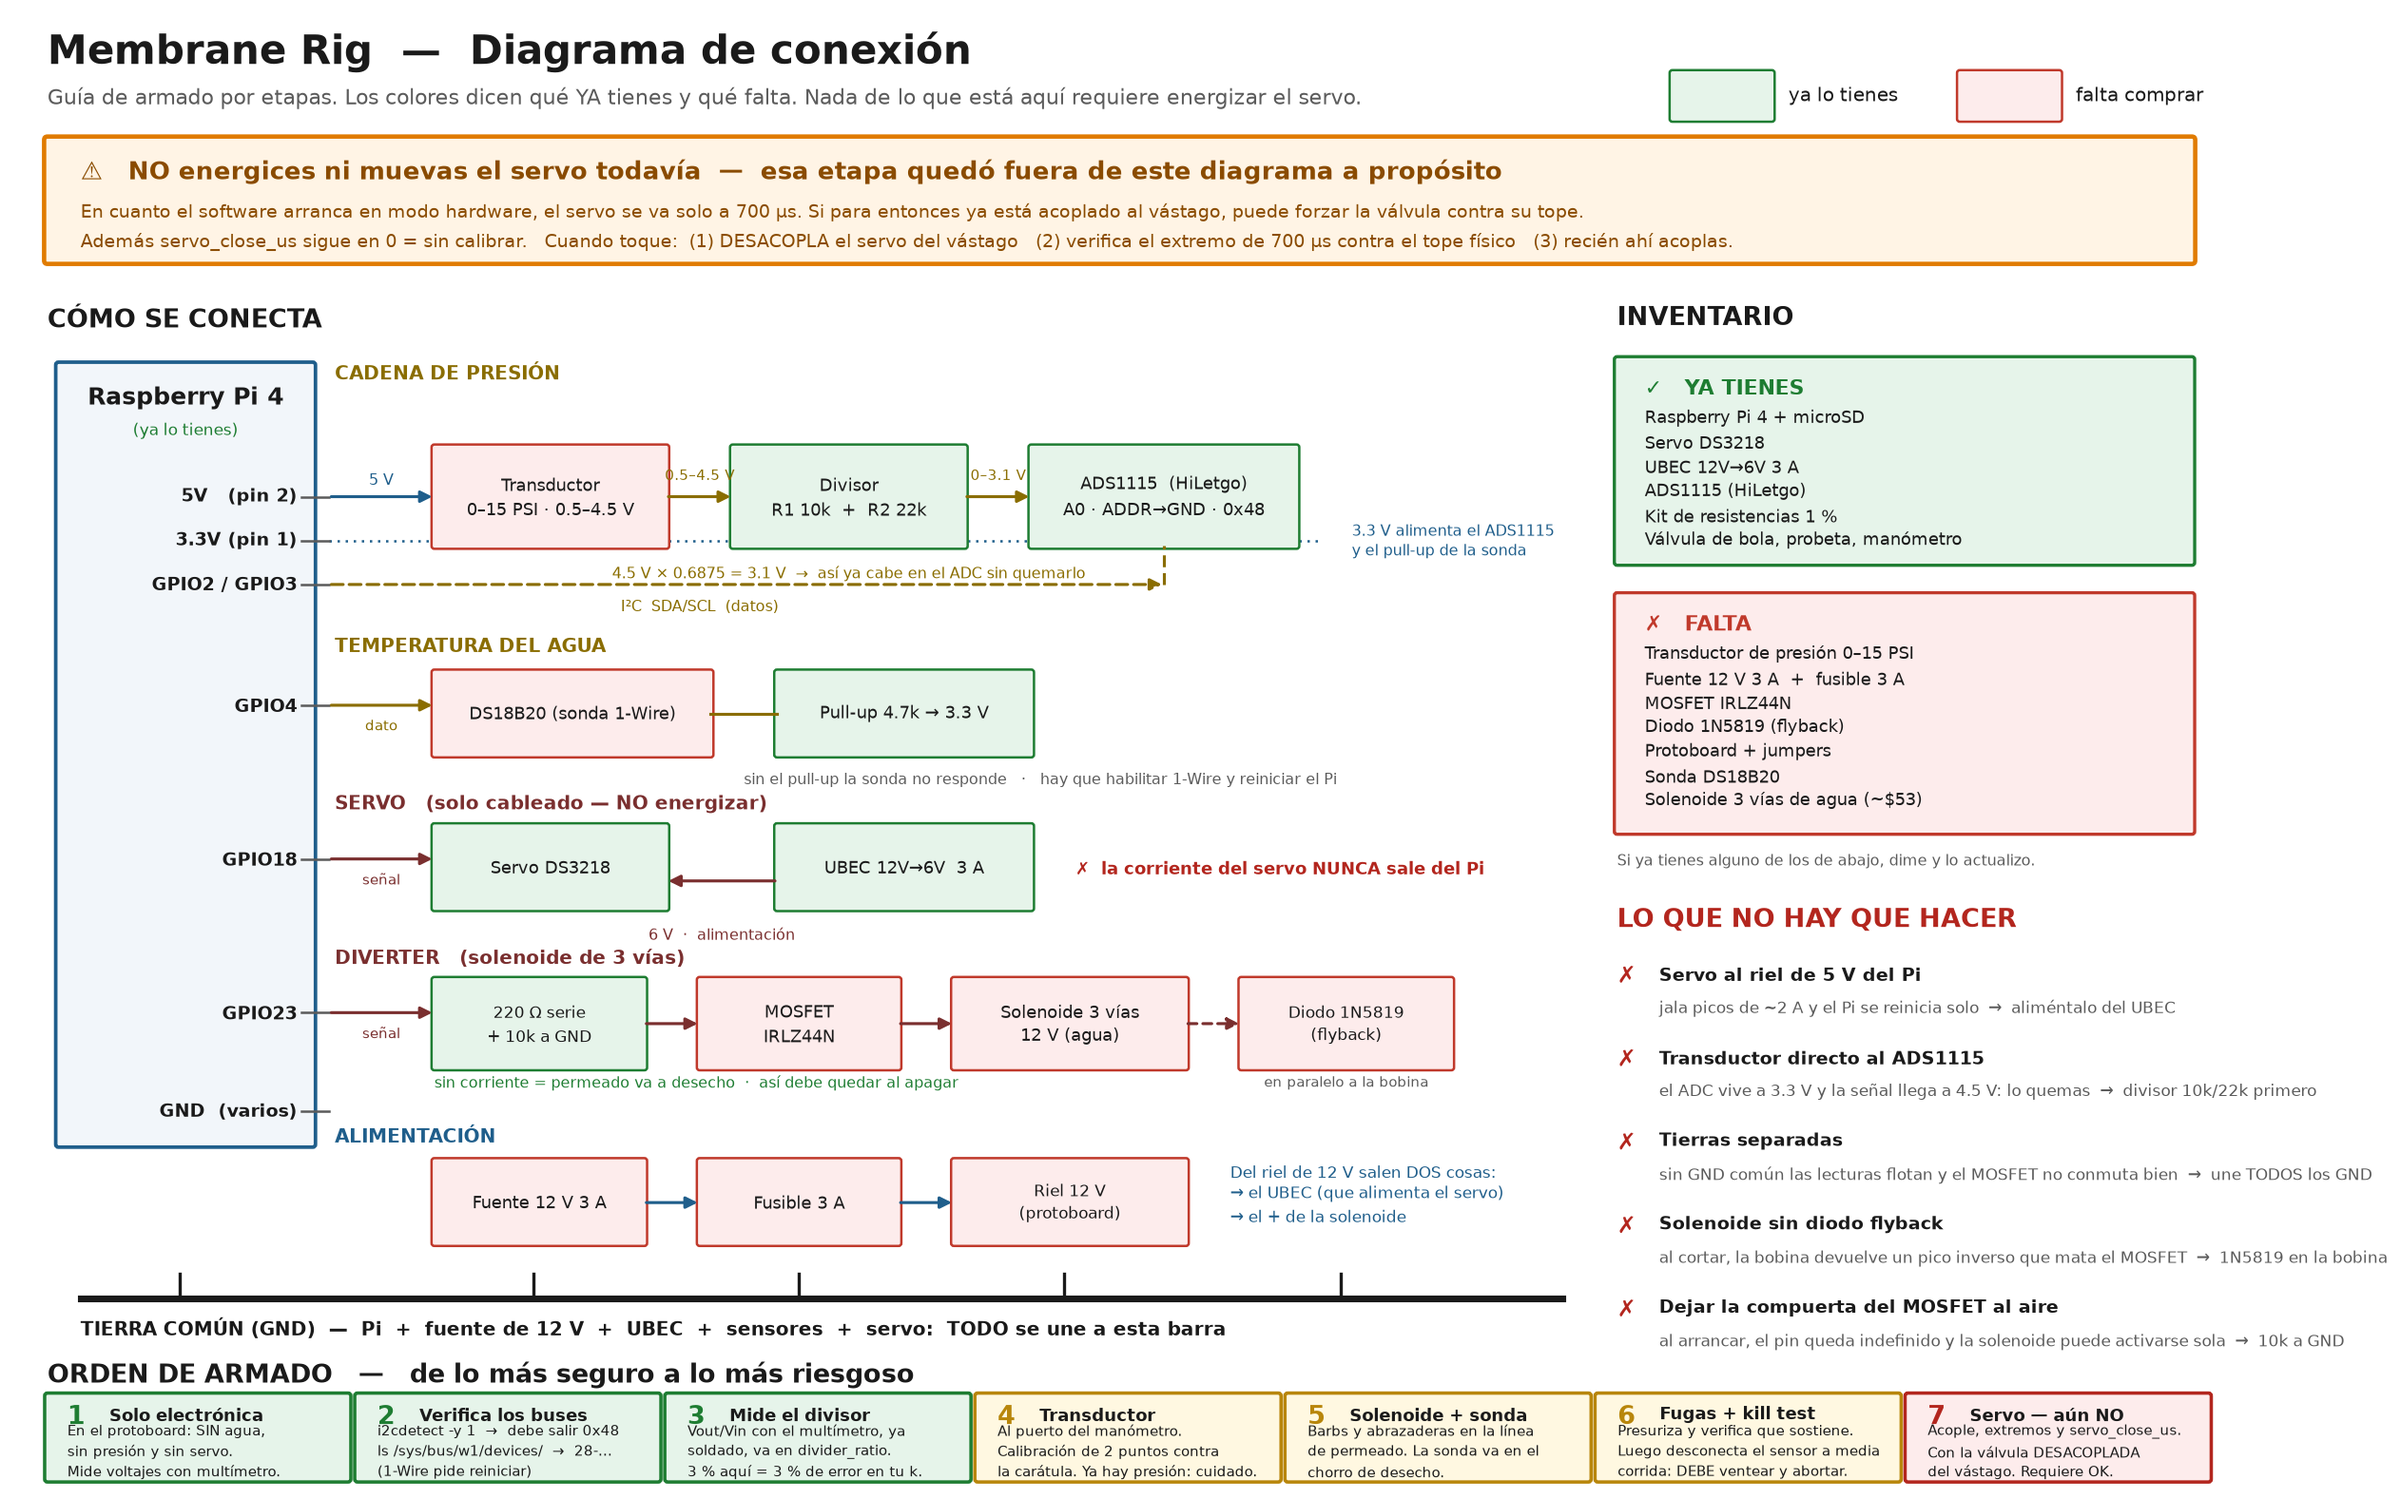
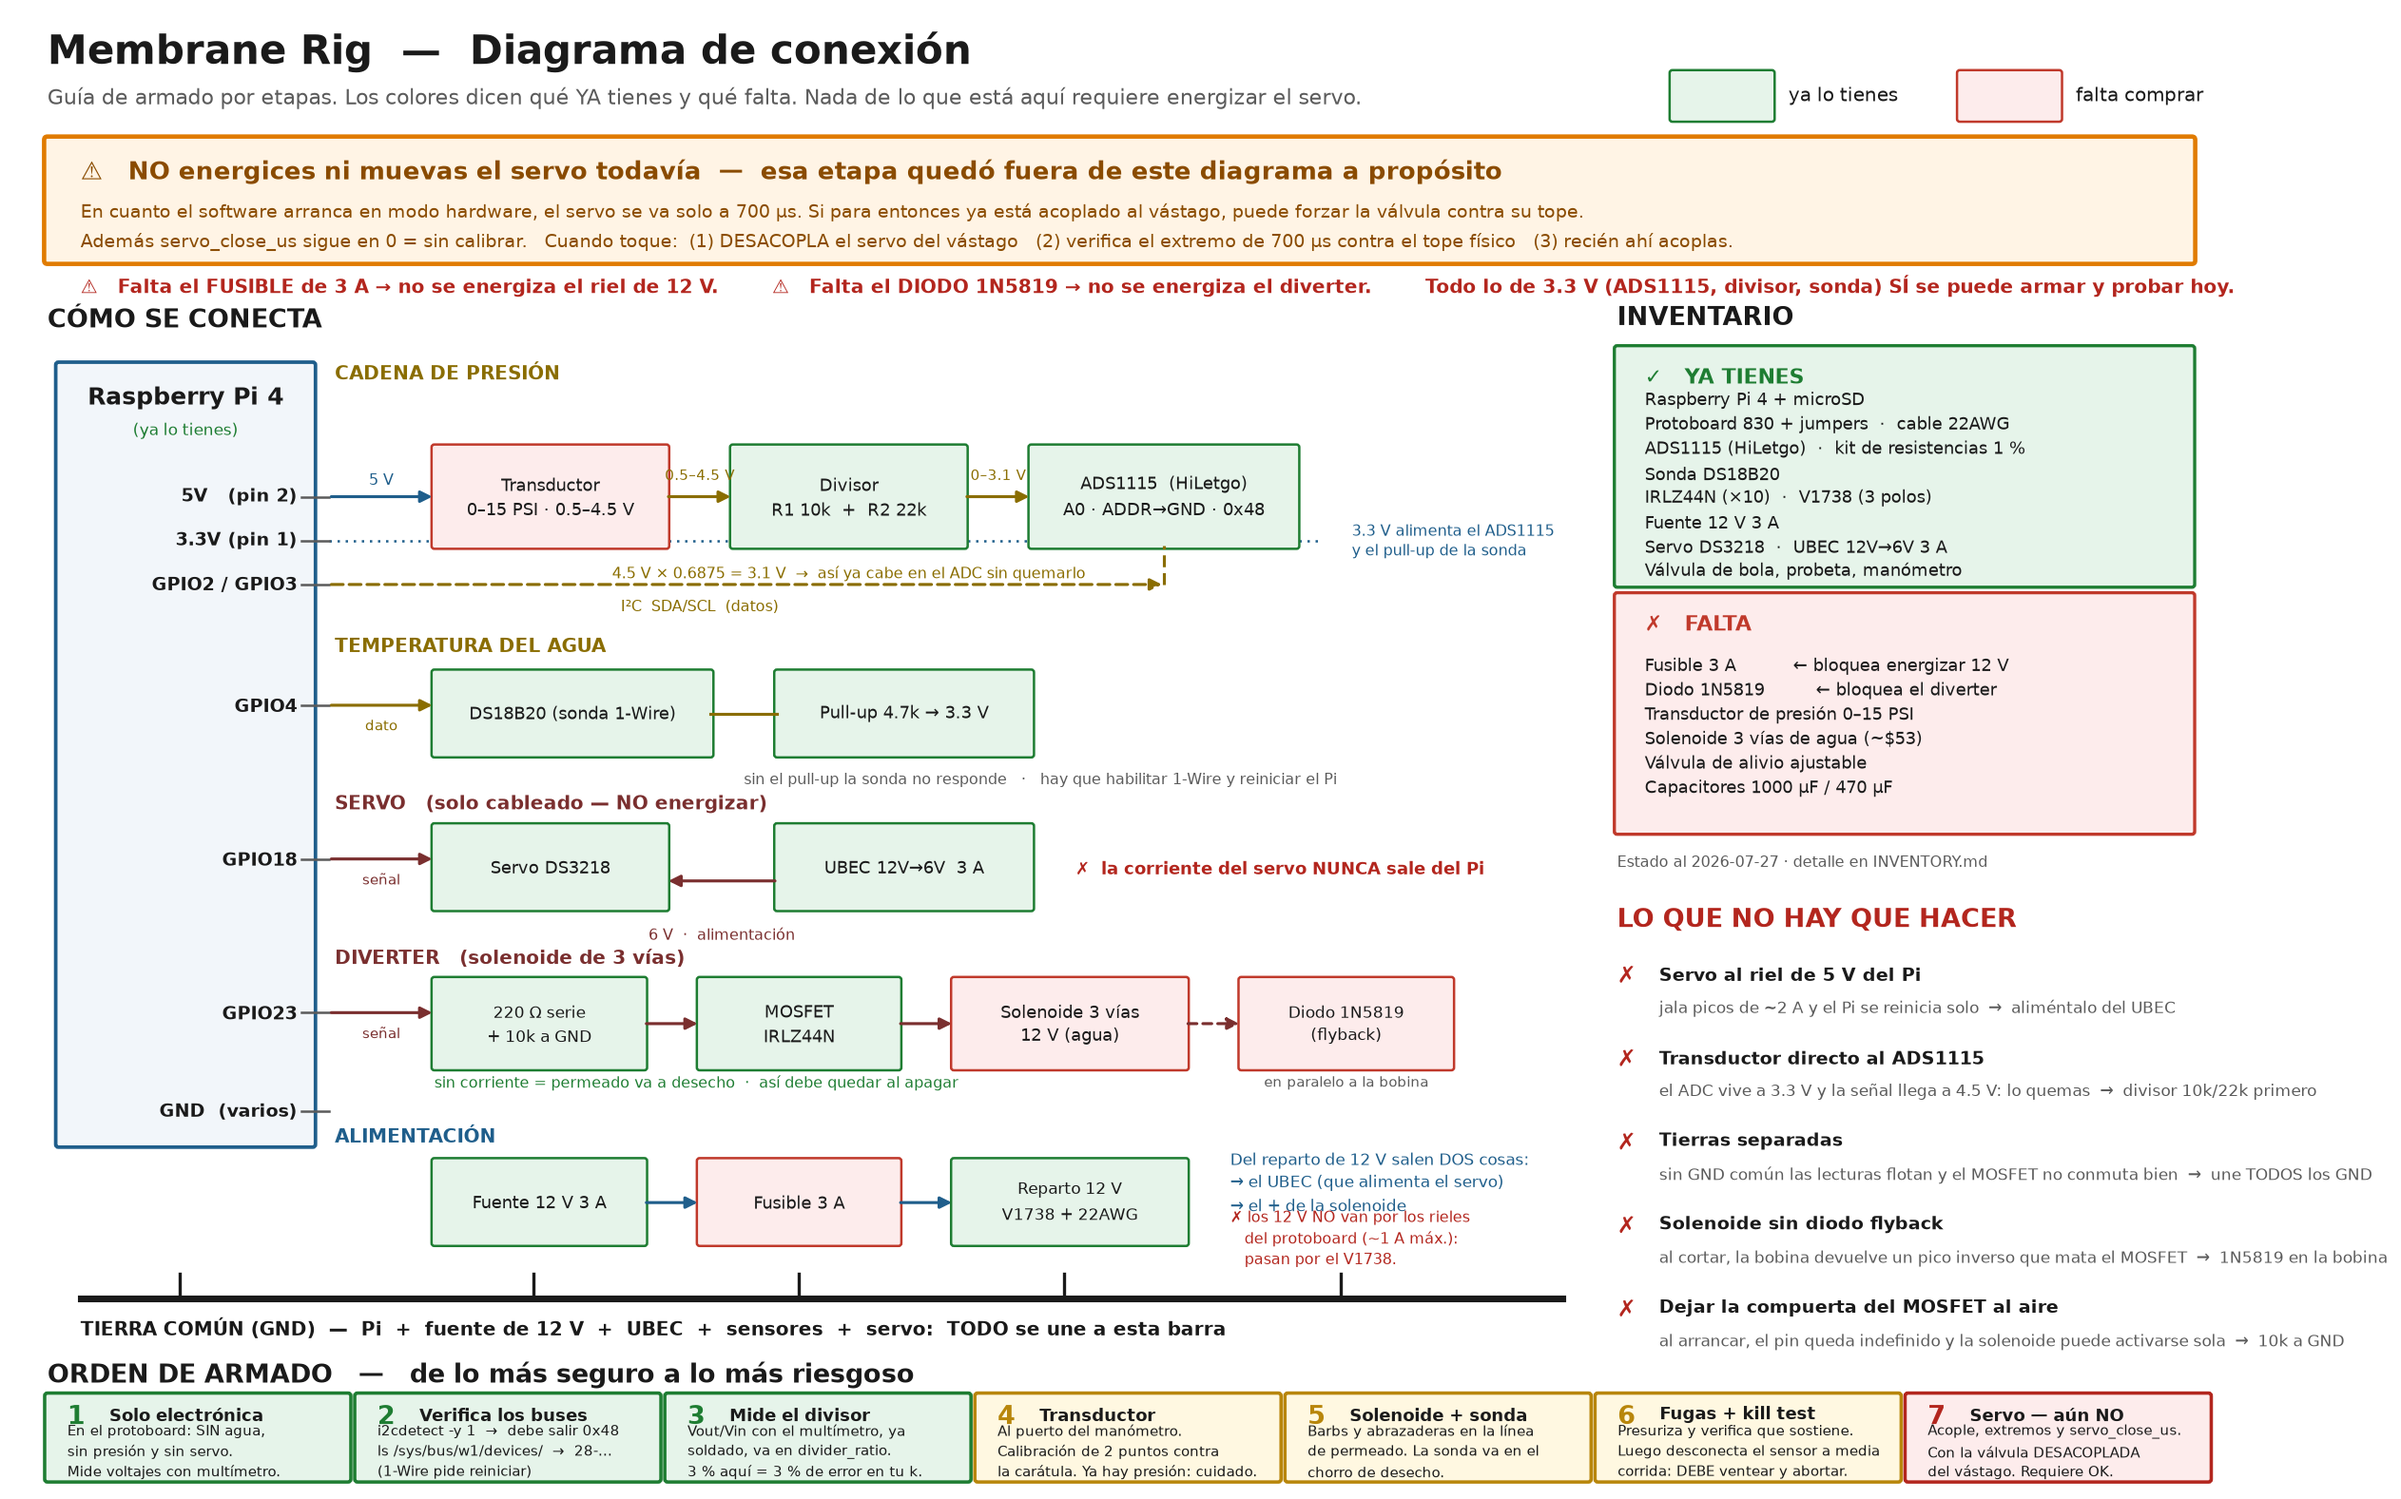
docs(hardware): sync workshop diagram to the real inventory
The sheet still painted the IRLZ44N, the 12 V supply and the DS18B20 as
missing after they arrived, and listed the protoboard as missing when it is
what Adrian is building on. Wrong in the direction that stalls work.

- have/missing recoloured against INVENTORY.md (d0ff2ae): protoboard+jumpers,
  22AWG, DS18B20, IRLZ44N, V1738 and the 12 V supply move to "ya tienes".
- the missing list now leads with the two that actually gate work, annotated
  with what each one blocks: the 3 A fuse (no 12 V rail) and the 1N5819 (no
  diverter). A bare list gave no way to tell those from the transducer.
- new banner under the servo warning stating both blockers plus the fact that
  the entire 3.3 V side can be built and tested today regardless.

Also carried in the routing decision behind the protoboard sheet being drawn
separately: 12 V is distributed through the V1738 and 22AWG, never through the
breadboard rails, whose contacts are good for ~1 A while the solenoid plus the
UBEC input can approach ~2 A. The power row now reads "Reparto 12 V — V1738 +
22AWG" instead of "Riel 12 V (protoboard)", which was quietly wrong advice.

diff --git a/tools/gen_wiring.py b/tools/gen_wiring.py
@@ -85,6 +85,10 @@ label(ax, 6, 115.9,
 label(ax, 6, 113.2,
       "Además servo_close_us sigue en 0 = sin calibrar.   Cuando toque:  (1) DESACOPLA el servo del vástago   (2) verifica el extremo de 700 µs contra el tope físico   (3) recién ahí acoplas.",
       "#8a4b00", 9.3, ha="left")
+label(ax, 6, 109.2,
+      "⚠   Falta el FUSIBLE de 3 A → no se energiza el riel de 12 V.        ⚠   Falta el DIODO 1N5819 → no se energiza el diverter.        "
+      "Todo lo de 3.3 V (ADS1115, divisor, sonda) SÍ se puede armar y probar hoy.",
+      BAD, 9.6, ha="left", weight="bold")
 
 # ============================================================ DIAGRAM (left)
 label(ax, 3, 106.5, "CÓMO SE CONECTA", INK, 13, ha="left", weight="bold")
@@ -130,7 +134,7 @@ label(ax, 121, 86.0, "3.3 V alimenta el ADS1115\ny el pull-up de la sonda", PWR,
 
 # ---------------------------------------------------------- ROW 2: temperature
 section(ax, 29, 76.5, "TEMPERATURA DEL AGUA", SIG)
-box(ax, 38, 66.5, 25, 7.5, "DS18B20 (sonda 1-Wire)", MISS_FC, MISS_EC, 8.6)
+box(ax, 38, 66.5, 25, 7.5, "DS18B20 (sonda 1-Wire)", HAVE_FC, HAVE_EC, 8.6)
 box(ax, 69, 66.5, 23, 7.5, "Pull-up 4.7k → 3.3 V", HAVE_FC, HAVE_EC, 8.6)
 arrow(ax, (28.5, 71.0), (38, 71.0), SIG)
 label(ax, 33.2, 69.2, "dato", SIG, 7.4)
@@ -150,7 +154,7 @@ label(ax, 96, 56.2, "✗  la corriente del servo NUNCA sale del Pi", BAD, 8.6, h
 # ---------------------------------------------------------- ROW 4: diverter
 section(ax, 29, 48.0, "DIVERTER   (solenoide de 3 vías)", CTRL)
 box(ax, 38, 38.0, 19, 8, "220 Ω serie\n+ 10k a GND", HAVE_FC, HAVE_EC, 8.4)
-box(ax, 62, 38.0, 18, 8, "MOSFET\nIRLZ44N", MISS_FC, MISS_EC, 8.6)
+box(ax, 62, 38.0, 18, 8, "MOSFET\nIRLZ44N", HAVE_FC, HAVE_EC, 8.6)
 box(ax, 85, 38.0, 21, 8, "Solenoide 3 vías\n12 V (agua)", MISS_FC, MISS_EC, 8.6)
 box(ax, 111, 38.0, 19, 8, "Diodo 1N5819\n(flyback)", MISS_FC, MISS_EC, 8.4)
 arrow(ax, (28.5, 43.0), (38, 43.0), CTRL)
@@ -163,14 +167,19 @@ label(ax, 120.5, 36.6, "en paralelo a la bobina", MUTED, 7.4)
 
 # ---------------------------------------------------------- ROW 5: power
 section(ax, 29, 32.0, "ALIMENTACIÓN", PWR)
-box(ax, 38, 22.0, 19, 7.5, "Fuente 12 V 3 A", MISS_FC, MISS_EC, 8.6)
+box(ax, 38, 22.0, 19, 7.5, "Fuente 12 V 3 A", HAVE_FC, HAVE_EC, 8.6)
 box(ax, 62, 22.0, 18, 7.5, "Fusible 3 A", MISS_FC, MISS_EC, 8.6)
-box(ax, 85, 22.0, 21, 7.5, "Riel 12 V\n(protoboard)", MISS_FC, MISS_EC, 8.4)
+box(ax, 85, 22.0, 21, 7.5, "Reparto 12 V\nV1738 + 22AWG", HAVE_FC, HAVE_EC, 8.4)
 arrow(ax, (57, 25.7), (62, 25.7), PWR)
 arrow(ax, (80, 25.7), (85, 25.7), PWR)
-label(ax, 110, 26.5,
-      "Del riel de 12 V salen DOS cosas:\n→ el UBEC (que alimenta el servo)\n→ el + de la solenoide",
+label(ax, 110, 27.5,
+      "Del reparto de 12 V salen DOS cosas:\n→ el UBEC (que alimenta el servo)\n→ el + de la solenoide",
       PWR, 8.0, ha="left")
+label(ax, 110, 22.4,
+      "✗ los 12 V NO van por los rieles\n"
+      "   del protoboard (~1 A máx.):\n"
+      "   pasan por el V1738.",
+      BAD, 7.6, ha="left")
 
 # ---------------------------------------------------------- GND bus
 ax.plot([6, 140], [17.0, 17.0], color=INK, lw=3.4, zorder=3)
@@ -184,29 +193,30 @@ label(ax, 6, 14.3,
 COLX = 145
 
 label(ax, COLX, 106.5, "INVENTARIO", INK, 13, ha="left", weight="bold")
-box(ax, COLX, 84.0, 52, 18.5, "", HAVE_FC, HAVE_EC, lw=1.6)
-label(ax, COLX + 2.5, 100.0, "✓   YA TIENES", GOOD, 10.4, ha="left", weight="bold")
-label(ax, COLX + 2.5, 91.6,
+box(ax, COLX, 82.0, 52, 21.5, "", HAVE_FC, HAVE_EC, lw=1.6)
+label(ax, COLX + 2.5, 101.0, "✓   YA TIENES", GOOD, 10.4, ha="left", weight="bold")
+label(ax, COLX + 2.5, 91.0,
       "Raspberry Pi 4 + microSD\n"
-      "Servo DS3218\n"
-      "UBEC 12V→6V 3 A\n"
-      "ADS1115 (HiLetgo)\n"
-      "Kit de resistencias 1 %\n"
+      "Protoboard 830 + jumpers  ·  cable 22AWG\n"
+      "ADS1115 (HiLetgo)  ·  kit de resistencias 1 %\n"
+      "Sonda DS18B20\n"
+      "IRLZ44N (×10)  ·  V1738 (3 polos)\n"
+      "Fuente 12 V 3 A\n"
+      "Servo DS3218  ·  UBEC 12V→6V 3 A\n"
       "Válvula de bola, probeta, manómetro",
       INK, 8.8, ha="left", va="center")
 
 box(ax, COLX, 59.5, 52, 21.5, "", MISS_FC, MISS_EC, lw=1.6)
 label(ax, COLX + 2.5, 78.5, "✗   FALTA", "#c0392b", 10.4, ha="left", weight="bold")
 label(ax, COLX + 2.5, 69.0,
+      "Fusible 3 A          ← bloquea energizar 12 V\n"
+      "Diodo 1N5819         ← bloquea el diverter\n"
       "Transductor de presión 0–15 PSI\n"
-      "Fuente 12 V 3 A  +  fusible 3 A\n"
-      "MOSFET IRLZ44N\n"
-      "Diodo 1N5819 (flyback)\n"
-      "Protoboard + jumpers\n"
-      "Sonda DS18B20\n"
-      "Solenoide 3 vías de agua (~$53)",
+      "Solenoide 3 vías de agua (~$53)\n"
+      "Válvula de alivio ajustable\n"
+      "Capacitores 1000 µF / 470 µF",
       INK, 8.8, ha="left", va="center")
-label(ax, COLX, 56.8, "Si ya tienes alguno de los de abajo, dime y lo actualizo.", MUTED, 7.8, ha="left")
+label(ax, COLX, 56.8, "Estado al 2026-07-27 · detalle en INVENTORY.md", MUTED, 7.8, ha="left")
 
 label(ax, COLX, 51.5, "LO QUE NO HAY QUE HACER", BAD, 13, ha="left", weight="bold")
 rules = [
